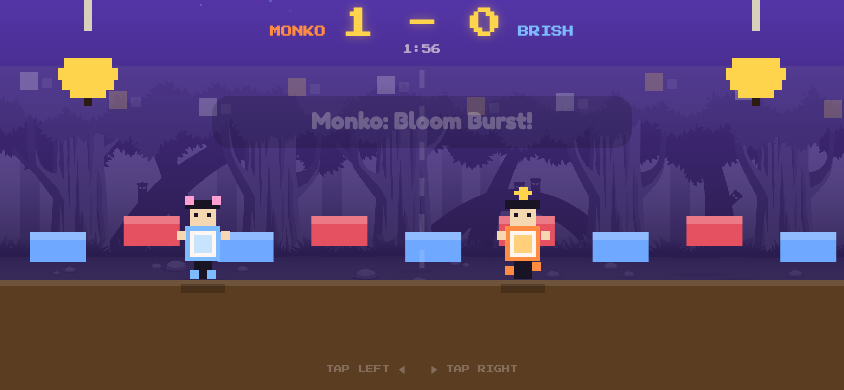
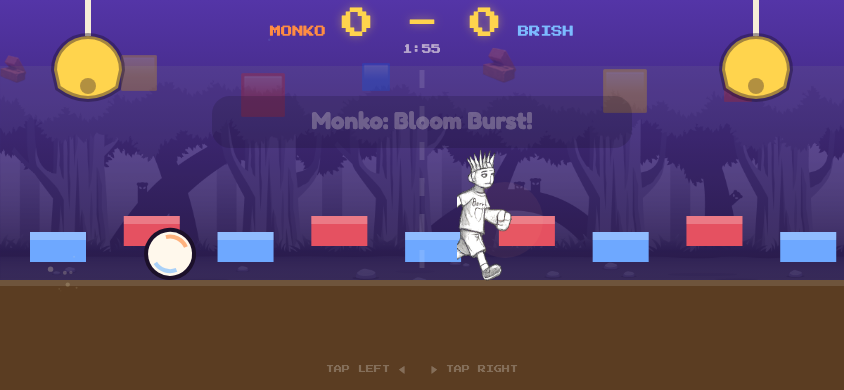
Revert to sprite characters + normal ball, add triple jump by tapping

diff --git a/script.js b/script.js
@@ -113,81 +113,16 @@ function loadImage(src) {
 }
 
 async function loadAssets() {
-  const loaded = await Promise.all([
-    ['background', await loadImage('images/background_single.png')],
-  ]);
-  loaded.forEach(([key, img]) => { ASSETS[key] = img; });
-}
-
-function setPixelMode(targetCtx) {
-  targetCtx.imageSmoothingEnabled = false;
-  targetCtx.webkitImageSmoothingEnabled = false;
-  targetCtx.mozImageSmoothingEnabled = false;
-  targetCtx.msImageSmoothingEnabled = false;
-}
-
-function drawPixelRect(targetCtx, x, y, w, h, color) {
-  targetCtx.fillStyle = color;
-  targetCtx.fillRect(Math.round(x), Math.round(y), Math.round(w), Math.round(h));
-}
-
-function drawPixelFighter(targetCtx, hero, x, y, facing, anim, frameTick, scale = 1) {
-  const px = 4 * scale;
-  const skin = '#f5d7b2';
-  const white = '#fff7ef';
-  const dark = '#181423';
-  const accent = hero.id === 'brish' ? '#ff8c42' : '#7cbbff';
-  const accent2 = hero.id === 'brish' ? '#ffcf7a' : '#c7e4ff';
-
-  targetCtx.save();
-  targetCtx.translate(Math.round(x), Math.round(y));
-  targetCtx.scale(facing, 1);
-
-  const bob = anim === 'run' ? ((frameTick % 2) ? 1 : 0) * px : 0;
-  const armReach = anim === 'attack' ? 3 * px : anim === 'power' ? 4 * px : 0;
-  const jumpLift = (anim === 'jump' || anim === 'fall') ? -1 * px : 0;
-
-  // shadow
-  drawPixelRect(targetCtx, -5 * px, 14 * px, 10 * px, 2 * px, 'rgba(0,0,0,0.22)');
-
-  // legs
-  drawPixelRect(targetCtx, -2 * px, (8 * px) + bob, 2 * px, 5 * px, dark);
-  drawPixelRect(targetCtx, 0, (8 * px) + bob, 2 * px, 5 * px, dark);
-  if (anim === 'run') {
-    drawPixelRect(targetCtx, -4 * px, (10 * px) + bob, 2 * px, 2 * px, accent);
-    drawPixelRect(targetCtx, 2 * px, (9 * px) + bob, 2 * px, 2 * px, accent);
-  } else {
-    drawPixelRect(targetCtx, -3 * px, (11 * px) + bob, 2 * px, 2 * px, accent);
-    drawPixelRect(targetCtx, 1 * px, (11 * px) + bob, 2 * px, 2 * px, accent);
+  const files = [];
+  for (const hero of Object.values(HEROES)) {
+    const root = hero.spriteRoot;
+    for (const suffix of ['idle', 'walk1', 'walk2', 'walk3', 'jump', 'fall', 'attack1', 'attack2']) {
+      files.push([hero.id + '_' + suffix, 'images/' + root + '_' + suffix + '.png']);
+    }
   }
-
-  // body
-  drawPixelRect(targetCtx, -4 * px, (1 * px) + jumpLift, 8 * px, 8 * px, accent);
-  drawPixelRect(targetCtx, -3 * px, (2 * px) + jumpLift, 6 * px, 6 * px, white);
-  drawPixelRect(targetCtx, -2 * px, (3 * px) + jumpLift, 4 * px, 4 * px, accent2);
-
-  // head
-  drawPixelRect(targetCtx, -3 * px, (-4 * px) + jumpLift, 6 * px, 5 * px, skin);
-  drawPixelRect(targetCtx, -4 * px, (-5 * px) + jumpLift, 8 * px, 2 * px, dark);
-  if (hero.id === 'brish') {
-    drawPixelRect(targetCtx, -1 * px, (-8 * px) + jumpLift, 2 * px, 3 * px, '#ffd44d');
-    drawPixelRect(targetCtx, -2 * px, (-7 * px) + jumpLift, 4 * px, 1 * px, '#ffd44d');
-  } else {
-    drawPixelRect(targetCtx, -4 * px, (-6 * px) + jumpLift, 2 * px, 2 * px, '#ff9ed2');
-    drawPixelRect(targetCtx, 2 * px, (-6 * px) + jumpLift, 2 * px, 2 * px, '#ff9ed2');
-  }
-  drawPixelRect(targetCtx, -2 * px, (-2 * px) + jumpLift, 1 * px, 1 * px, dark);
-  drawPixelRect(targetCtx, 1 * px, (-2 * px) + jumpLift, 1 * px, 1 * px, dark);
-
-  // arms
-  drawPixelRect(targetCtx, (-6 * px) - armReach, (2 * px) + jumpLift, 2 * px + armReach, 2 * px, skin);
-  drawPixelRect(targetCtx, 4 * px, (2 * px) + jumpLift, 2 * px, 2 * px, skin);
-  if (anim === 'power') {
-    drawPixelRect(targetCtx, (-8 * px), 0 + jumpLift, 2 * px, 2 * px, '#ffffff');
-    drawPixelRect(targetCtx, (-10 * px), -2 * px + jumpLift, 2 * px, 2 * px, accent);
-  }
-
-  targetCtx.restore();
+  files.push(['background', 'images/background_single.png']);
+  const loaded = await Promise.all(files.map(async function(pair) { return [pair[0], await loadImage(pair[1])]; }));
+  loaded.forEach(function(pair) { ASSETS[pair[0]] = pair[1]; });
 }
 
 // Simplified input: tap left half = go left + jump + attack left
@@ -279,7 +214,6 @@ window.addEventListener('keyup', (event) => {
 function resize() {
   canvas.width = Math.floor(window.innerWidth * Math.min(window.devicePixelRatio || 1, 1.5));
   canvas.height = Math.floor(window.innerHeight * Math.min(window.devicePixelRatio || 1, 1.5));
-  setPixelMode(ctx);
   state.w = canvas.width;
   state.h = canvas.height;
   state.floorY = state.h - Math.max(110, state.h * 0.17);
@@ -312,6 +246,8 @@ class Fighter {
     this.height = 112;
     this.facing = side === 'left' ? 1 : -1;
     this.onGround = true;
+    this.jumpsLeft = 3;
+    this.jumpTriggered = false;
     this.attackTimer = 0;
     this.attackCooldown = 0;
     this.powerCooldown = 0;
@@ -349,12 +285,15 @@ class Fighter {
     }
     this.vx = clamp(this.vx, -maxSpeed, maxSpeed);
 
-    if (this.intent.jump && this.onGround) {
-      this.vy = -this.hero.jump;
+    if (this.intent.jump && !this.jumpTriggered && this.jumpsLeft > 0) {
+      this.vy = -this.hero.jump * (this.jumpsLeft === 3 ? 1.0 : 0.85);
+      this.jumpsLeft -= 1;
       this.onGround = false;
+      this.jumpTriggered = true;
     }
+    if (!this.intent.jump) this.jumpTriggered = false;
 
-    // stronger hold jump so taps can create useful aerial follow-ups
+    // hold jump for float
     if (!this.onGround && this.intent.jump && this.vy < -120) {
       this.vy -= 520 * dt;
     }
@@ -373,6 +312,7 @@ class Fighter {
       this.y = state.floorY;
       this.vy = 0;
       this.onGround = true;
+      this.jumpsLeft = 3;
     }
 
     this.attackCooldown = Math.max(0, this.attackCooldown - dt);
@@ -446,7 +386,19 @@ class Fighter {
   }
 
   draw(ctx) {
+    const frameKey = FRAME_KEYS[this.anim][this.animFrame % FRAME_KEYS[this.anim].length];
+    const asset = ASSETS[this.hero.id + '_' + frameKey];
+    const spriteW = 320;
+    const spriteH = 426;
+    const drawH = this.height * 1.38;
+    const drawW = this.width * 1.18;
+    const x = this.x - drawW / 2;
+    const y = this.y - drawH + 8;
+
     ctx.save();
+    ctx.translate(this.x, 0);
+    ctx.scale(this.facing === 1 ? 1 : -1, 1);
+    ctx.translate(-this.x, 0);
 
     if (this.powerFlash > 0) {
       ctx.fillStyle = this.hero.tint;
@@ -455,24 +407,29 @@ class Fighter {
       ctx.fill();
     }
 
-    if (this.hitFlash > 0) {
-      ctx.globalCompositeOperation = 'screen';
-      ctx.globalAlpha = 0.8;
+    if (asset) {
+      ctx.drawImage(asset, 0, 0, spriteW, spriteH, x, y, drawW, drawH);
+    } else {
+      ctx.fillStyle = this.hero.color;
+      ctx.fillRect(this.x - 20, this.y - 80, 40, 80);
     }
 
-    drawPixelFighter(ctx, this.hero, this.x, this.y - 58, this.facing === 1 ? 1 : -1, this.anim, this.animFrame, 1.1);
+    if (this.hitFlash > 0) {
+      ctx.globalCompositeOperation = 'screen';
+      ctx.fillStyle = 'rgba(255,255,255,0.45)';
+      ctx.fillRect(x, y, drawW, drawH);
+    }
 
     if (this.powerCooldown <= 0) {
       ctx.globalCompositeOperation = 'screen';
       ctx.globalAlpha = 0.14 + Math.sin(Date.now() * 0.006) * 0.08;
       ctx.fillStyle = this.hero.color;
       ctx.beginPath();
-      ctx.arc(this.x, this.y - 58, 38, 0, Math.PI * 2);
+      ctx.arc(this.x, this.y - 60, 38, 0, Math.PI * 2);
       ctx.fill();
+      ctx.globalAlpha = 1;
+      ctx.globalCompositeOperation = 'source-over';
     }
-
-    ctx.globalAlpha = 1;
-    ctx.globalCompositeOperation = 'source-over';
     ctx.restore();
   }
 }
@@ -546,22 +503,34 @@ class Ball {
 
   draw(ctx) {
     ctx.save();
-    ctx.translate(Math.round(this.x), Math.round(this.y));
+    ctx.translate(this.x, this.y);
     ctx.rotate(this.rotation);
-
-    // chunky arcade ball
-    drawPixelRect(ctx, -20, -20, 40, 40, '#f7f2de');
-    drawPixelRect(ctx, -16, -16, 32, 32, '#fff8ec');
-    drawPixelRect(ctx, -8, -16, 8, 32, '#1c102a');
-    drawPixelRect(ctx, 0, -8, 16, 8, '#ff8c42');
-    drawPixelRect(ctx, -16, 0, 16, 8, '#7cbbff');
+    ctx.fillStyle = '#fff8ec';
+    ctx.beginPath();
+    ctx.arc(0, 0, this.r, 0, Math.PI * 2);
+    ctx.fill();
+    ctx.lineWidth = 4;
+    ctx.strokeStyle = '#1c102a';
+    ctx.stroke();
+    ctx.strokeStyle = 'rgba(255,140,66,0.65)';
+    ctx.beginPath();
+    ctx.arc(0, 0, this.r * 0.72, -0.8, 0.6);
+    ctx.stroke();
+    ctx.strokeStyle = 'rgba(124,187,255,0.65)';
+    ctx.beginPath();
+    ctx.arc(0, 0, this.r * 0.72, 2.2, 3.6);
+    ctx.stroke();
     ctx.restore();
 
     if (this.trailBoost > 0) {
       ctx.save();
-      ctx.globalAlpha = this.trailBoost * 0.28;
-      const col = this.lastTouch === 'left' ? HEROES.brish.color : HEROES.monko.color;
-      drawPixelRect(ctx, this.x - this.vx * 0.03 - 10, this.y - this.vy * 0.03 - 6, 20, 12, col);
+      ctx.globalAlpha = this.trailBoost * 0.32;
+      ctx.strokeStyle = this.lastTouch === 'left' ? HEROES.brish.color : HEROES.monko.color;
+      ctx.lineWidth = 8;
+      ctx.beginPath();
+      ctx.moveTo(this.x, this.y);
+      ctx.lineTo(this.x - this.vx * 0.04, this.y - this.vy * 0.04);
+      ctx.stroke();
       ctx.restore();
     }
   }
@@ -601,7 +570,10 @@ function drawParticles(ctx) {
   particles.forEach((p) => {
     const alpha = 1 - p.age / p.life;
     ctx.globalAlpha = alpha;
-    drawPixelRect(ctx, p.x - (p.size * alpha) / 2, p.y - (p.size * alpha) / 2, Math.max(2, p.size * alpha), Math.max(2, p.size * alpha), p.color);
+    ctx.fillStyle = p.color;
+    ctx.beginPath();
+    ctx.arc(p.x, p.y, p.size * alpha, 0, Math.PI * 2);
+    ctx.fill();
   });
   ctx.globalAlpha = 1;
 }
@@ -800,12 +772,12 @@ function drawBackground() {
     ctx.globalAlpha = 1;
   }
 
-  for (let i = 0; i < 10; i += 1) {
-    const x = 20 + (i / 9) * (state.w - 40);
-    const y = state.h * 0.22 + Math.sin(i * 1.7 + state.last * 0.0005) * 14;
-    ctx.globalAlpha = 0.22;
-    drawPixelRect(ctx, x, y, 18, 18, i % 2 ? world.accent : '#ffffff');
-    drawPixelRect(ctx, x + 22, y + 6, 10, 10, 'rgba(255,255,255,0.3)');
+  for (let i = 0; i < 8; i += 1) {
+    const x = (i / 7) * state.w;
+    const y = state.h * 0.24 + Math.sin(i * 1.9 + state.last * 0.0004) * 18;
+    ctx.font = (28 + (i % 3) * 8) + 'px serif';
+    ctx.globalAlpha = 0.26;
+    ctx.fillText(world.crowd[i % world.crowd.length], x, y);
   }
   ctx.globalAlpha = 1;
 
@@ -835,8 +807,10 @@ function drawBackground() {
       const x = 60 + i * (state.w / 6.5);
       const y = state.floorY - 40 - (i % 3) * 24;
       ctx.fillStyle = i % 2 ? 'rgba(255,141,216,0.33)' : 'rgba(255,255,255,0.18)';
-      drawPixelRect(ctx, x, y, 22, 22, ctx.fillStyle);
-      drawPixelRect(ctx, x + 52, y + 8, 18, 18, 'rgba(255,255,255,0.18)');
+      ctx.fillRect(x, y, 22, 22);
+      ctx.beginPath();
+      ctx.arc(x + 58, y + 20, 16, 0, Math.PI * 2);
+      ctx.fill();
     }
   }
 
@@ -850,23 +824,34 @@ function drawBell(x, side) {
   const world = WORLDS[state.worldIndex % WORLDS.length];
   const topY = state.floorY - 295;
   const bellY = state.floorY - 210;
+  ctx.strokeStyle = '#f6edd8';
+  ctx.lineWidth = 6;
+  ctx.beginPath();
+  ctx.moveTo(x, topY);
+  ctx.lineTo(x, bellY - 34);
+  ctx.stroke();
 
-  // temple post / bracket
-  drawPixelRect(ctx, x - 4, topY, 8, 46, '#d8d0bb');
-  drawPixelRect(ctx, x - 26, topY - 12, 52, 10, '#5a432b');
+  ctx.fillStyle = world.bell;
+  ctx.beginPath();
+  ctx.arc(x, bellY, 34, Math.PI, 0);
+  ctx.lineTo(x + 30, bellY + 18);
+  ctx.quadraticCurveTo(x, bellY + 40, x - 30, bellY + 18);
+  ctx.closePath();
+  ctx.fill();
+  ctx.strokeStyle = 'rgba(28,16,42,0.4)';
+  ctx.stroke();
 
-  // pixel bell
-  drawPixelRect(ctx, x - 24, bellY - 12, 48, 10, world.bell);
-  drawPixelRect(ctx, x - 30, bellY - 2, 60, 12, world.bell);
-  drawPixelRect(ctx, x - 26, bellY + 10, 52, 10, world.bell);
-  drawPixelRect(ctx, x - 18, bellY + 20, 36, 8, world.bell);
-  drawPixelRect(ctx, x - 4, bellY + 28, 8, 8, '#2b1b12');
+  ctx.fillStyle = 'rgba(28,16,42,0.34)';
+  ctx.beginPath();
+  ctx.arc(x, bellY + 16, 8, 0, Math.PI * 2);
+  ctx.fill();
 
-  drawPixelRect(ctx, x - 28, topY - 22, 56, 12, side === 'left' ? '#ff7c9f' : '#7cf5aa');
+  ctx.fillStyle = side === 'left' ? 'rgba(255,124,159,0.9)' : 'rgba(124,245,170,0.9)';
+  ctx.fillRect(x - 28, topY - 18, 56, 20);
   ctx.fillStyle = '#28192a';
   ctx.font = '700 12px Fredoka';
   ctx.textAlign = 'center';
-  ctx.fillText(side === 'left' ? 'MONKO' : 'BRISH', x, topY - 12);
+  ctx.fillText(side === 'left' ? 'MONKO' : 'BRISH', x, topY - 4);
 }
 
 function drawMidline() {
@@ -1010,26 +995,24 @@ function animatePreview(heroId, canvasId) {
   var c = document.getElementById(canvasId);
   if (!c) return;
   var pctx = c.getContext('2d');
-  setPixelMode(pctx);
+  var frames = FRAME_KEYS.idle;
   var frameIdx = 0;
   var lastT = 0;
   function tick(ts) {
     if (!c.isConnected) return;
-    if (ts - lastT > 180) {
+    if (ts - lastT > 200) {
       lastT = ts;
-      frameIdx = (frameIdx + 1) % 4;
+      frameIdx = (frameIdx + 1) % frames.length;
     }
+    var key = heroId + '_' + frames[frameIdx];
+    var img = ASSETS[key];
     pctx.clearRect(0, 0, c.width, c.height);
-    drawPixelFighter(
-      pctx,
-      HEROES[heroId],
-      c.width / 2,
-      c.height / 2 + 24,
-      1,
-      frameIdx % 2 ? 'run' : 'idle',
-      frameIdx,
-      1.2
-    );
+    if (img) {
+      var scale = Math.min(c.width / 320, c.height / 426) * 0.9;
+      var dw = 320 * scale;
+      var dh = 426 * scale;
+      pctx.drawImage(img, 0, 0, 320, 426, (c.width - dw) / 2, (c.height - dh) / 2, dw, dh);
+    }
     requestAnimationFrame(tick);
   }
   requestAnimationFrame(tick);
